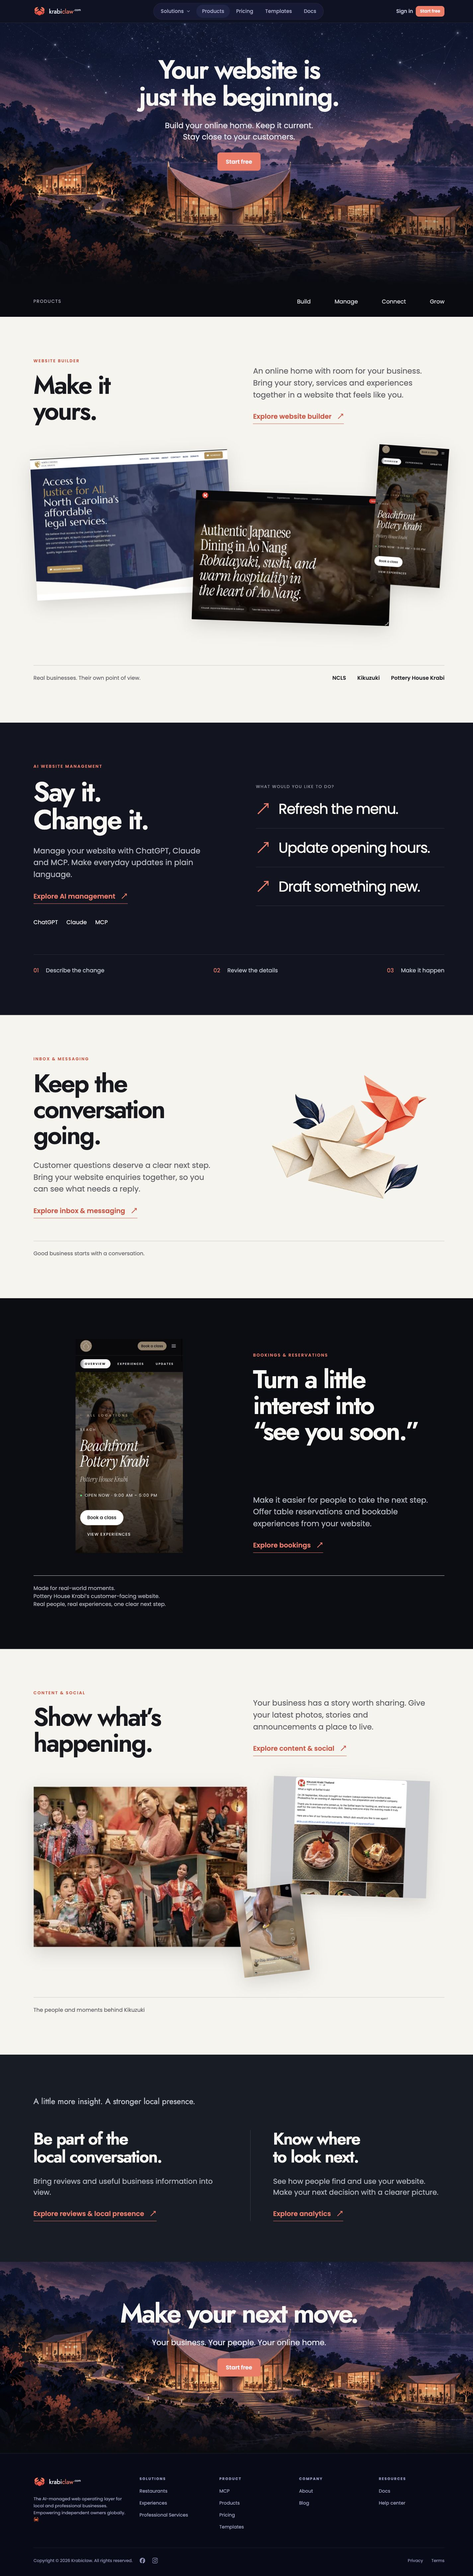
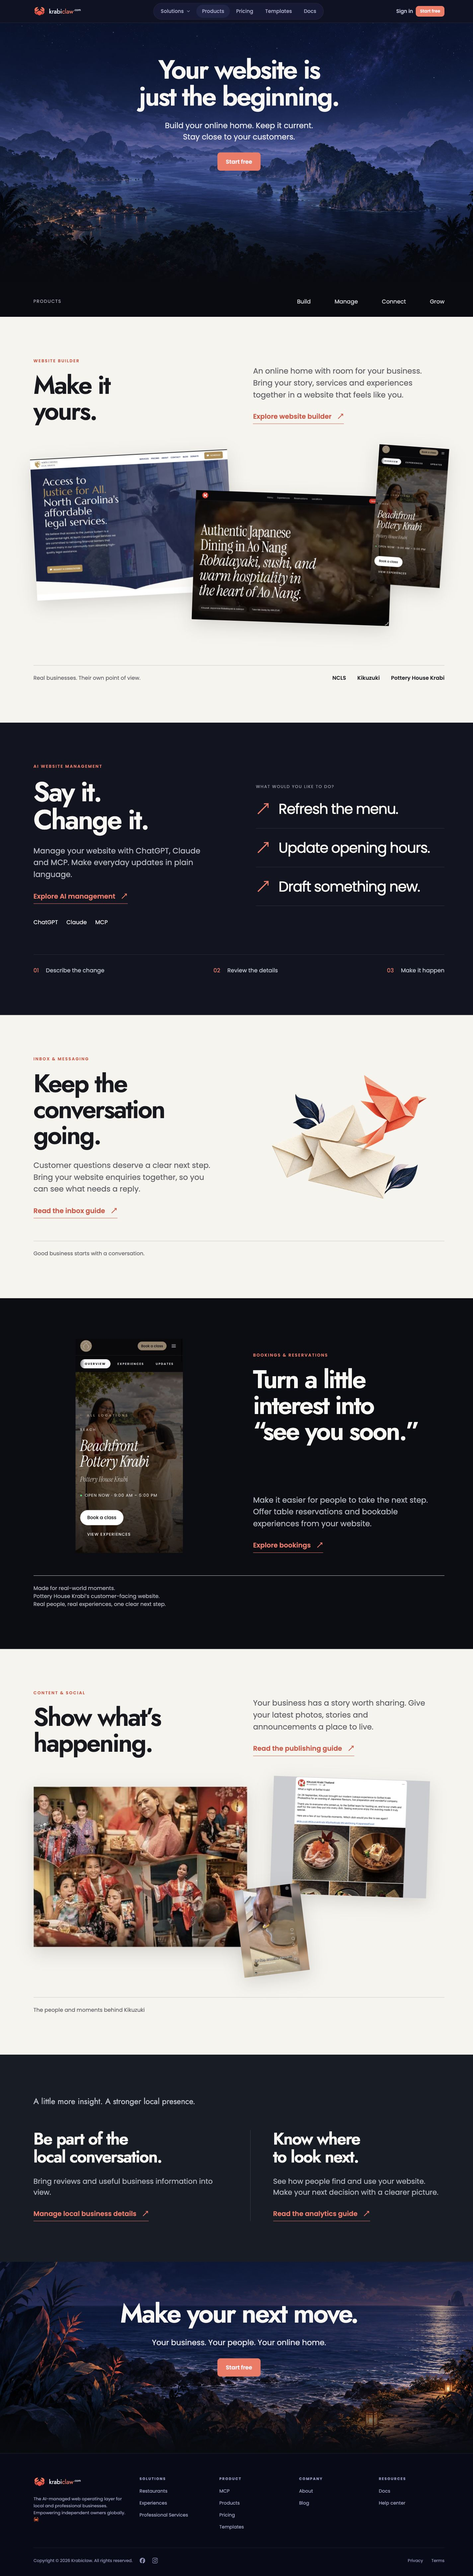
Refine Products artwork and verify published destinations

Changed region(s): [[0.0, 0.8735, 1.0, 0.9671], [0.0, 0.0, 1.0, 0.1248]]

diff --git a/tests/e2e/platform-products.spec.ts b/tests/e2e/platform-products.spec.ts
@@ -16,13 +16,23 @@ test('Products retains its authored content, media and canonical identity after 
   expect(graph.join('')).toContain('https://krabiclaw.com/products#webpage')
   const images = page.locator('.kc-products-page img')
   expect(await images.count()).toBe(10)
+  const sceneImages = page.locator('.kc-product-scene__art')
+  expect(await sceneImages.count()).toBe(2)
+  expect(await sceneImages.nth(0).getAttribute('src')).not.toBe(await sceneImages.nth(1).getAttribute('src'))
   for (const image of await images.all()) {
     await image.scrollIntoViewIfNeeded()
     await expect.poll(() => image.evaluate((element: HTMLImageElement) => element.complete && element.naturalWidth > 0)).toBe(true)
   }
-  await page.getByRole('navigation', { name: 'Products', exact: true }).getByRole('link', { name: 'Connect', exact: true }).click()
-  await expect(page).toHaveURL(/#products-inbox$/)
-  await expect(page.getByRole('heading', { name: 'Keep the conversation going.', exact: true })).toBeInViewport()
+  for (const anchor of [
+    { label: 'Build', id: 'products-website-builder', heading: 'Make it yours.' },
+    { label: 'Manage', id: 'products-management', heading: 'Say it. Change it.' },
+    { label: 'Connect', id: 'products-inbox', heading: 'Keep the conversation going.' },
+    { label: 'Grow', id: 'products-content-social', heading: 'Show what’s happening.' },
+  ]) {
+    await page.getByRole('navigation', { name: 'Products', exact: true }).getByRole('link', { name: anchor.label, exact: true }).click()
+    await expect(page).toHaveURL(new RegExp(`#${anchor.id}$`))
+    await expect(page.getByRole('heading', { name: anchor.heading, exact: true })).toBeInViewport()
+  }
 })
 
 test('Products remains readable on a narrow mobile viewport', async ({ page }) => {
@@ -34,4 +44,23 @@ test('Products remains readable on a narrow mobile viewport', async ({ page }) =
   await page.getByRole('navigation', { name: 'Products', exact: true }).getByRole('link', { name: 'Grow', exact: true }).click()
   await expect(page.getByRole('heading', { name: 'Show what’s happening.', exact: true })).toBeInViewport()
   expect(await page.evaluate(() => document.documentElement.scrollWidth <= innerWidth)).toBe(true)
+})
+
+test('Products section links reach their relevant published destinations', async ({ page }) => {
+  const destinations = [
+    { label: 'Explore website builder', path: '/templates', heading: /Beautiful templates/ },
+    { label: 'Explore AI management', path: '/docs/mcp-setup', heading: /Connect KrabiClaw to ChatGPT/ },
+    { label: 'Read the inbox guide', path: '/docs/handle-inquiries-and-reservation-requests', heading: /Handle inquiries and reservation requests/ },
+    { label: 'Explore bookings', path: '/experiences', heading: /Direct bookings/ },
+    { label: 'Read the publishing guide', path: '/docs/publish-a-post', heading: /Publish a post/ },
+    { label: 'Manage local business details', path: '/docs/update-locations-and-hours', heading: /Update locations and hours/ },
+    { label: 'Read the analytics guide', path: '/docs/read-your-site-analytics', heading: /Read your site analytics/ },
+  ]
+  for (const destination of destinations) {
+    await openTenantPage(page, `${testBaseUrl()}/products`, {})
+    await waitForNuxtHydration(page)
+    await page.getByRole('link', { name: destination.label, exact: false }).click()
+    await expect(page).toHaveURL(`${testBaseUrl()}${destination.path}`)
+    await expect(page.getByRole('heading', { level: 1 })).toContainText(destination.heading)
+  }
 })

diff --git a/components/platform/marketing/PlatformCoastalScene.vue b/components/platform/marketing/PlatformCoastalScene.vue
@@ -27,7 +27,9 @@ const url = computed(() => text(props.closing ? props.block.data.url : props.blo
 .kc-product-scene__copy { padding: clamp(4rem, 7vw, 7rem) 1.5rem; }
 .kc-product-scene h1, .kc-product-scene h2 { max-width: 64rem; margin: auto; font-size: clamp(2.9rem, 5.5vw, 5.5rem); font-weight: 600; letter-spacing: -.045em; line-height: 1.02; white-space: pre-line; text-wrap: balance; }
 .kc-product-scene p { color: #e4e4ec; font-size: clamp(1.05rem, 1.6vw, 1.55rem); line-height: 1.45; margin: 1.8rem auto; max-width: 40rem; white-space: pre-line; }
+.kc-product-scene--closing .kc-product-scene__art { object-position: 50% bottom; }
 .kc-product-scene--closing { min-height: clamp(25rem, 40vw, 40rem); }
 .kc-product-scene--closing .kc-product-scene__copy { padding-top: clamp(5rem, 8vw, 8rem); }
-@media (max-width: 767px) { .kc-product-scene__art { object-position: 50% bottom; } .kc-product-scene { min-height: 37rem; } .kc-product-scene--closing { min-height: 30rem; } }
+@media (max-width: 767px) { .kc-product-scene__art { object-position: 58% bottom; } .kc-product-scene--closing .kc-product-scene__art { object-position: 92% bottom; } .kc-product-scene { min-height: 37rem; }
+.kc-product-scene--closing { min-height: 30rem; } }
 </style>

diff --git a/docs/product/products-link-audit.md b/docs/product/products-link-audit.md
@@ -1,0 +1,22 @@
+# Products link audit
+
+Audited the actual local Worker in the browser on 2026-10-01 after merging staging. The page has 39 link elements including shared header/footer duplicates. All internal destinations below rendered their intended page; all four section anchors were also checked in the browser E2E test for the target heading being in the viewport.
+
+| Products link | Destination | Result |
+| --- | --- | --- |
+| Start free / Sign in | `/signup`, `/login` | Existing onboarding flow rendered in the current browser session; no form submitted |
+| Build / Manage / Connect / Grow | Products section anchors | Correct heading and viewport |
+| Explore website builder | `/templates` | Published template gallery |
+| Explore AI management | `/docs/mcp-setup` | Published ChatGPT/MCP setup guide |
+| Read the inbox guide | `/docs/handle-inquiries-and-reservation-requests` | Published inquiry/reservation guide |
+| Explore bookings | `/experiences` | Published experiences page |
+| Read the publishing guide | `/docs/publish-a-post` | Published post guide |
+| Manage local business details | `/docs/update-locations-and-hours` | Published locations/hours guide |
+| Read the analytics guide | `/docs/read-your-site-analytics` | Published analytics guide |
+| Logo / home | `/` | Existing homepage |
+| Shared navigation/footer | `/restaurants`, `/legal`, `/pricing`, `/plugin`, `/about`, `/blog`, `/docs`, `/help`, `/policies/privacy`, `/policies/terms`, `/products` | Published destination headings verified |
+| Legacy Features | `/features?source=legacy` | Redirects to `/products?source=legacy`; canonical remains `https://krabiclaw.com/products` |
+| Instagram | `https://www.instagram.com/krabiclaw/` | Krabiclaw profile title and handle verified |
+| Facebook | `https://www.facebook.com/1205835975938850` | Facebook login wall preserving the profile destination; profile identity could not be verified without signing in |
+
+The four misleading section destinations were corrected to the existing published guides above. No speculative `/products/:slug` links or detailed product copy were added. The repository already routes future detail documents through its canonical catch-all and the reusable Products recipe; this change does not publish detail documents. An absent future detail page is therefore absent authored content, rather than a separate missing page component.

diff --git a/docs/product/products-overview.md b/docs/product/products-overview.md
@@ -35,3 +35,22 @@ and the actual reference pixels inspected before implementation.
 Canonical metadata, JSON-LD, localization, sitemap discovery, and public resource
 cache invalidation remain in the existing page-document pipeline. No preview
 environment switch or external media publication is required.
+
+## Approved artwork revision
+
+On 2026-10-01 the owner approved two distinct replacement scenes: an elevated
+archipelago for `products-hero` / `media`, and a moonlit shore for
+`products-closing` / `media`. Both masters are 1672×941. Files are preserved
+without redrawing or resizing. Hero and closing use separate asset identities.
+Desktop uses centered bottom cropping; mobile uses 58% for the hero and 92% for
+the closing image to retain its moon and lantern path. Both use `object-fit: cover`.
+Keep text regions quiet in the upper center; mobile crops most of the sides.
+
+Updated transfer package SHA-256:
[1 lines of base64/hex data omitted]
+
+Product detail routes have a reusable renderer, but no authored detail documents
+are published. Section links use existing published destinations. Inbox,
+publishing and analytics links point to their relevant guides; the local-presence
+link explicitly identifies the guide to business locations and hours. They do
+not imply unpublished product-detail content or a new reviews guide.
